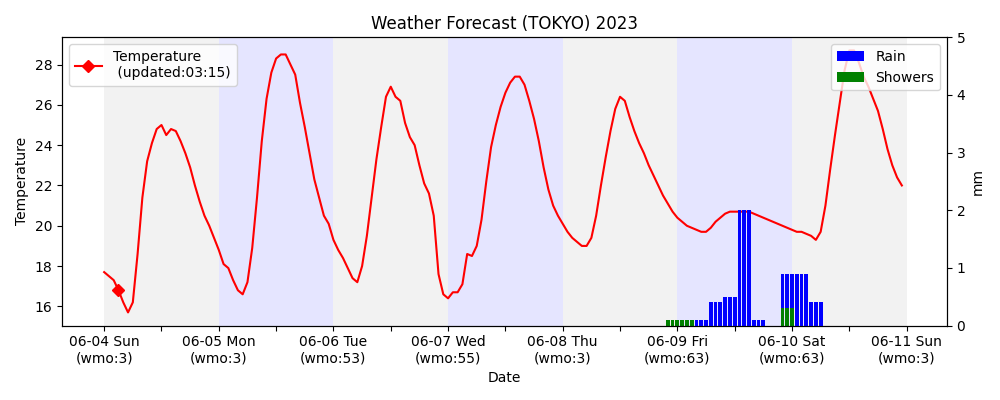
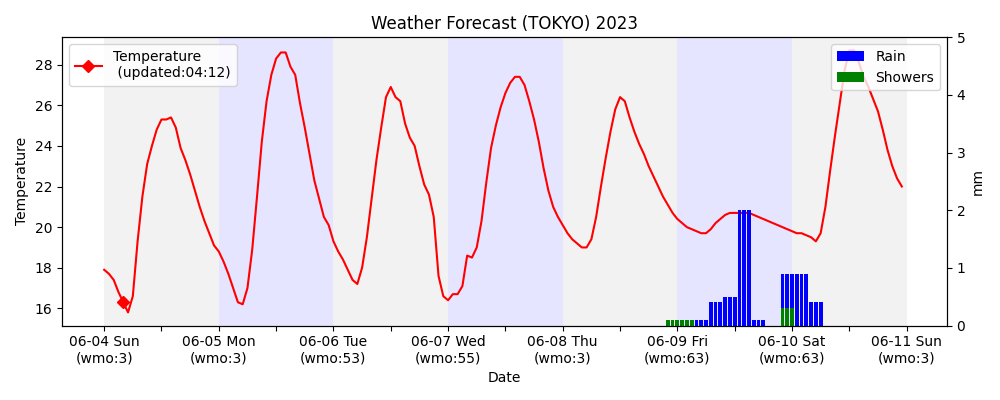
deploy: f87ba371ab7883b4a2ff4518b9b66b6f979a7528

diff --git a/docs/src/dashboard/marketinfo.html b/docs/src/dashboard/marketinfo.html
@@ -33,7 +33,7 @@
             <td>138.822</td>
             <td>138.605</td>
             <td>140.072</td>
-            <td>2023-06-04 03:15:59</td>
+            <td>2023-06-04 04:12:04</td>
         </tr>
     </table>
 
